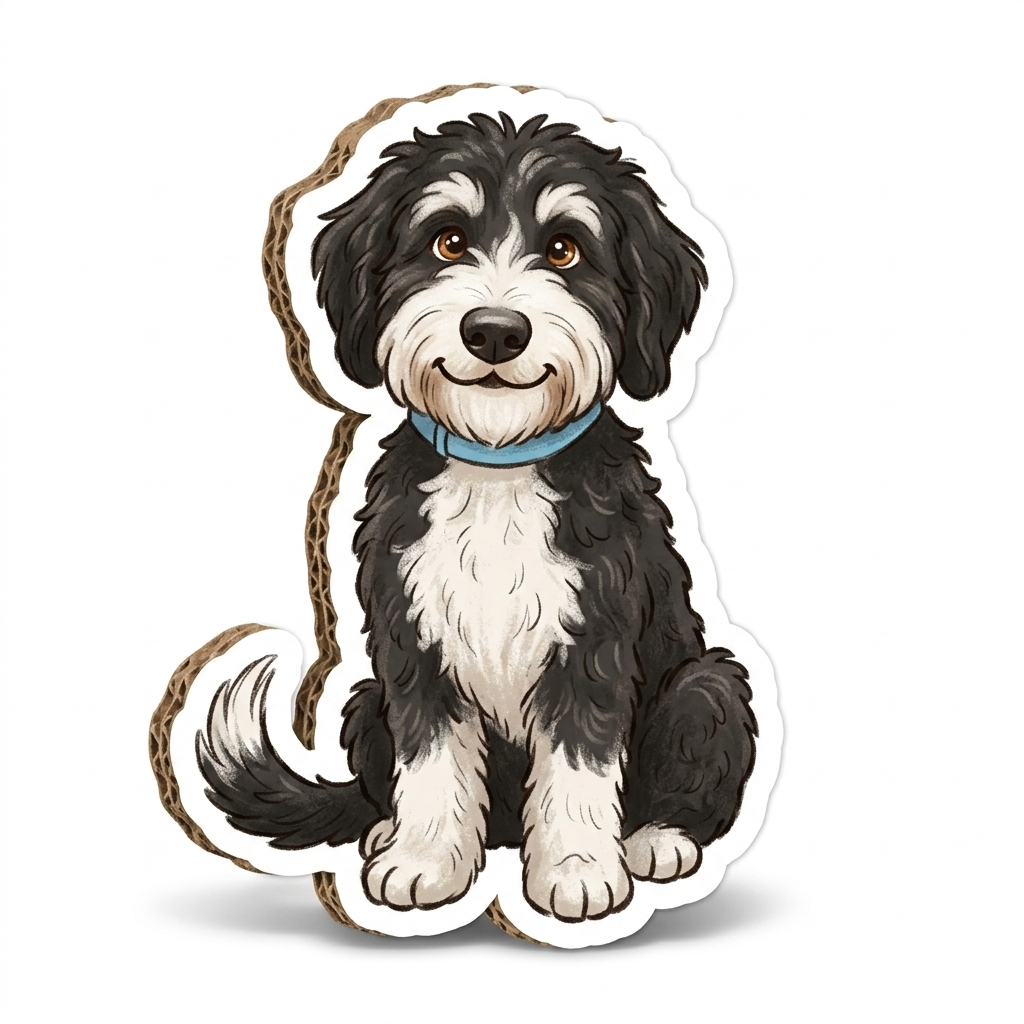
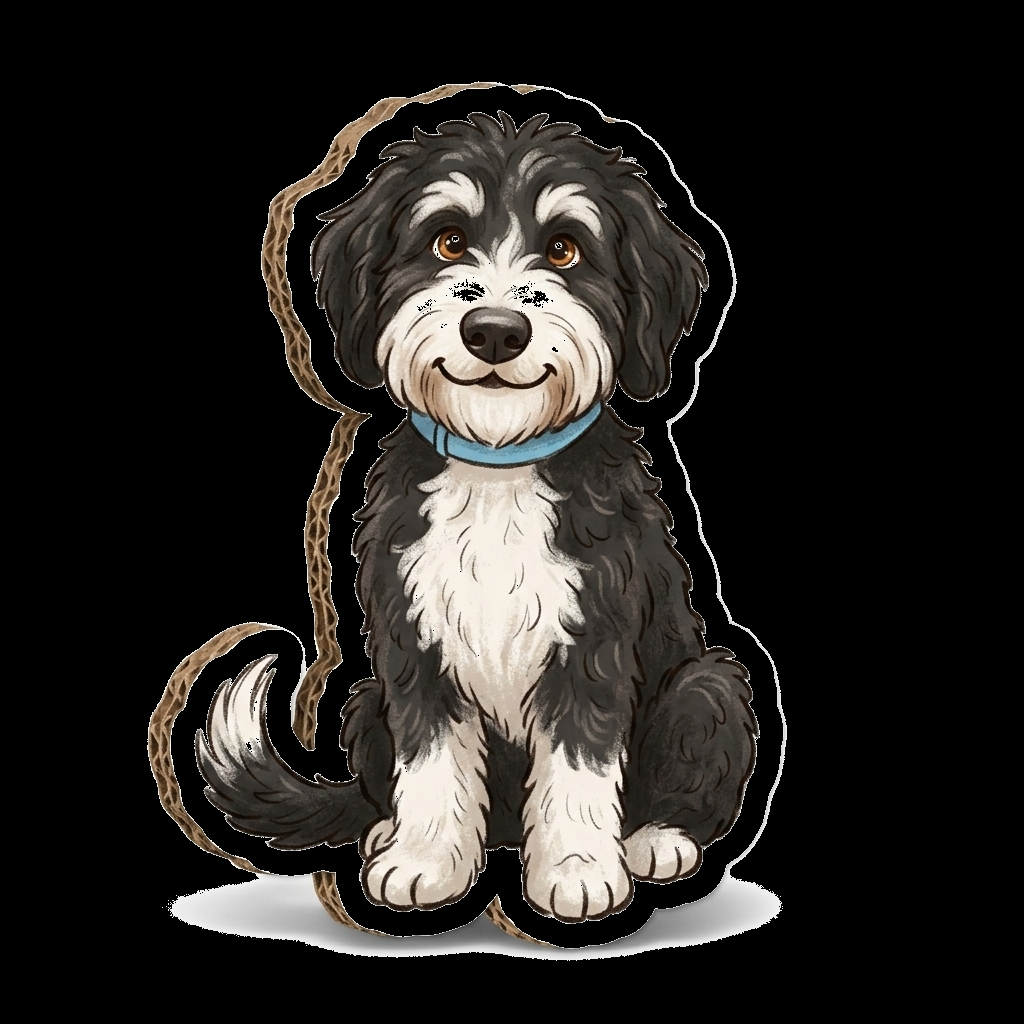
Fix Mascot Piku cutout transparency, positioning, timing, and bubble visibility

diff --git a/assets/index.css b/assets/index.css
@@ -1766,10 +1766,12 @@ html[data-theme="dark"] .outreach-icon-box { background: rgba(212, 175, 55, 0.1)
 
 #piku-mascot-container.piku-bottom-right {
   right: 50px;
+  left: auto !important;
 }
 
 #piku-mascot-container.piku-bottom-left {
   left: 50px;
+  right: auto !important;
 }
 
 .piku-cutout-wrapper {
@@ -1861,6 +1863,10 @@ html[data-theme="dark"] .outreach-icon-box { background: rgba(212, 175, 55, 0.1)
 
 #piku-mascot-container.leave.piku-bottom-left {
   animation: piku-stopmotion-leave-bl 0.6s steps(6) forwards;
+}
+
+#piku-mascot-container.wiggling {
+  transform: translateY(0);
 }
 
 #piku-mascot-container.wiggling .piku-cutout-img {

diff --git a/assets/index.js b/assets/index.js
@@ -682,10 +682,10 @@ function initMascotPiku() {
       container.classList.add('wiggling', 'show-bubble');
     }, 800);
 
-    // Keep active for 5.5 seconds, then hide
+    // Keep active for 12 seconds, then hide
     setTimeout(() => {
       hidePiku();
-    }, 5500);
+    }, 12000);
   };
 
   const hidePiku = () => {
@@ -742,7 +742,7 @@ function initMascotPiku() {
     }, 150);
   };
 
-  // Start the schedule (first pop-in after 15 seconds)
-  nextTimeout = setTimeout(showPiku, 15000);
+  // Start the schedule (first pop-in after 10 seconds)
+  nextTimeout = setTimeout(showPiku, 10000);
 }
 
